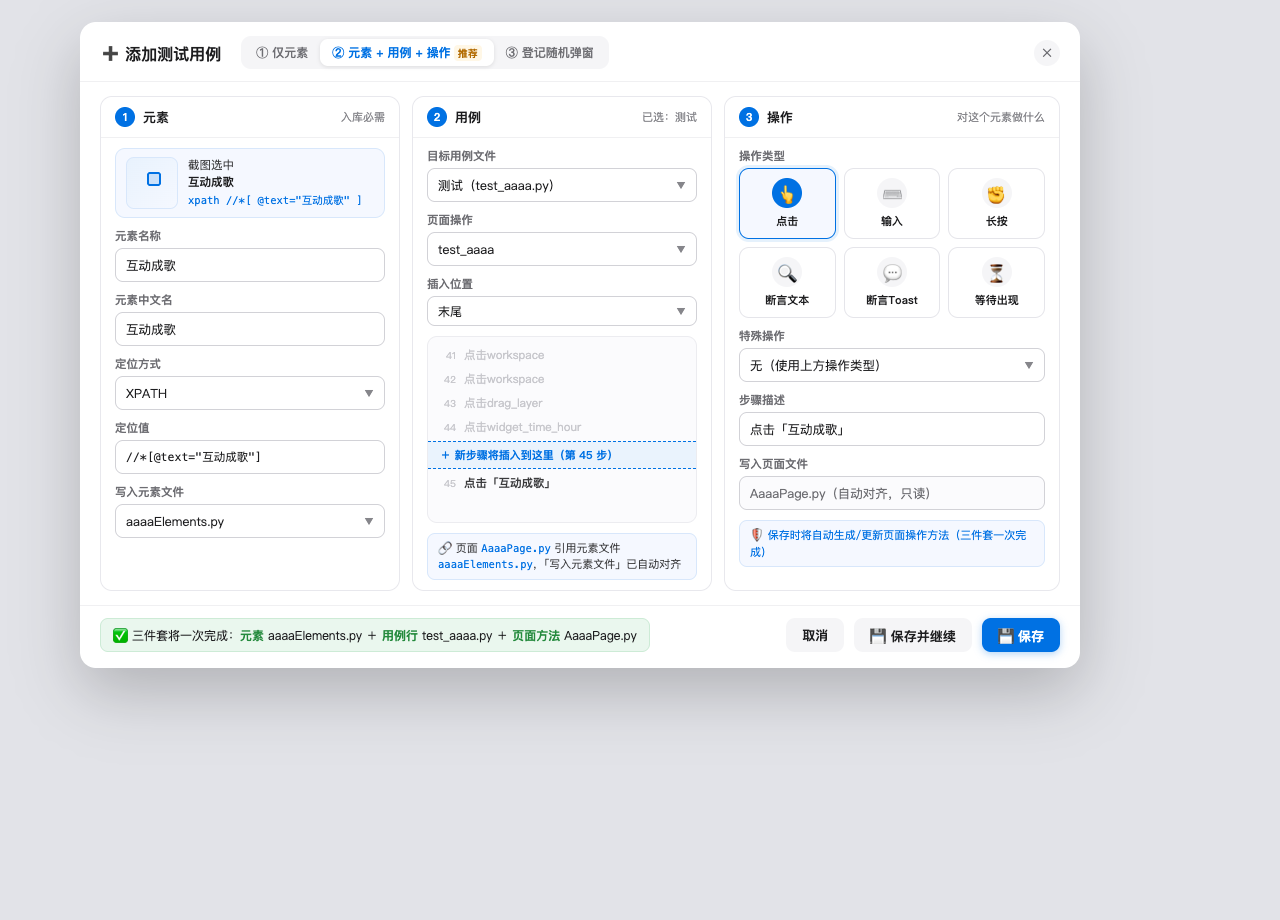
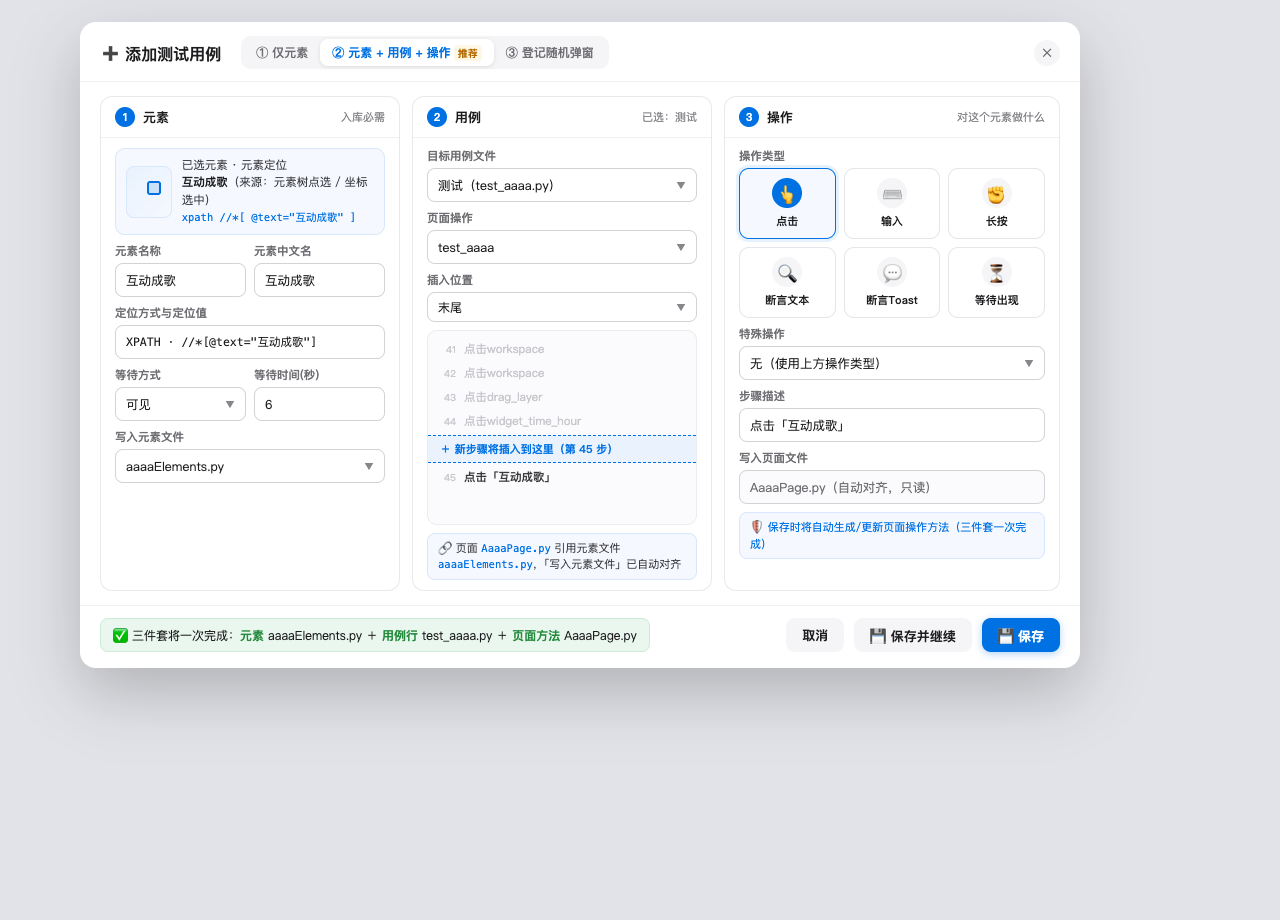
平台 v6.96：三栏式原型补等待字段与来源说明

diff --git a/design/proto-case-tri.html b/design/proto-case-tri.html
@@ -21,7 +21,8 @@
   .card-h .n { width:20px; height:20px; border-radius:50%; background:#0071e3; color:#fff; font-size:11px; font-weight:700; display:flex; align-items:center; justify-content:center; }
   .card-h .t { font-size:13px; font-weight:700; color:#1d1d1f; }
   .card-h .m { font-size:11px; color:#86868b; margin-left:auto; }
-  .card-b { padding:10px 14px; display:flex; flex-direction:column; gap:10px; flex:1; min-height:0; }
+  .card-b { padding:10px 14px; display:flex; flex-direction:column; gap:8px; flex:1; min-height:0; }
+  .grid2 { display:grid; grid-template-columns:1fr 1fr; gap:8px; }
   .field label { display:block; font-size:11.5px; font-weight:600; color:#6e6e73; margin-bottom:4px; }
   .inp, .sel { width:100%; height:34px; border:1px solid #d2d2d7; border-radius:8px; padding:0 10px; font-size:12.5px; color:#1d1d1f; display:flex; align-items:center; justify-content:space-between; background:#fff; }
   .inp.mono { font-family:ui-monospace,Menlo,monospace; font-size:11.5px; }
@@ -80,12 +81,17 @@
         <div class="card-b">
           <div class="anchor">
             <div class="thumb"><div class="mark"></div></div>
-            <div class="a-tx">截图选中<br><b>互动成歌</b><br><code>xpath //*[ @text="互动成歌" ]</code></div>
+            <div class="a-tx">已选元素 · 元素定位<br><b>互动成歌</b>（来源：元素树点选 / 坐标选中）<br><code>xpath //*[ @text="互动成歌" ]</code></div>
           </div>
-          <div class="field"><label>元素名称</label><div class="inp">互动成歌</div></div>
-          <div class="field"><label>元素中文名</label><div class="inp">互动成歌</div></div>
-          <div class="field"><label>定位方式</label><div class="sel"><span>XPATH</span><span class="arr">▼</span></div></div>
-          <div class="field"><label>定位值</label><div class="inp mono">//*[@text="互动成歌"]</div></div>
+          <div class="grid2">
+            <div class="field"><label>元素名称</label><div class="inp">互动成歌</div></div>
+            <div class="field"><label>元素中文名</label><div class="inp">互动成歌</div></div>
+          </div>
+          <div class="field"><label>定位方式与定位值</label><div class="inp mono">XPATH · //*[@text="互动成歌"]</div></div>
+          <div class="grid2">
+            <div class="field"><label>等待方式</label><div class="sel"><span>可见</span><span class="arr">▼</span></div></div>
+            <div class="field"><label>等待时间(秒)</label><div class="inp">6</div></div>
+          </div>
           <div class="field"><label>写入元素文件</label><div class="sel"><span>aaaaElements.py</span><span class="arr">▼</span></div></div>
         </div>
       </div>

diff --git a/web_platform/changelog.py b/web_platform/changelog.py
@@ -10,11 +10,20 @@
 两端不再各自硬编码版本号。
 """
 
-APP_VERSION = '6.95'
+APP_VERSION = '6.96'
 
 # 最新版本在最前；time 精确到秒（YYYY-MM-DD HH:MM:SS）
 # 每条变更一句话 10~20 字，只说改了什么（详细背景见项目 memory 与设计文档）
 CHANGELOG = [
+    {
+        'version': '6.96',
+        'time': '2026-09-23 15:34:05',
+        'title': '三栏式原型补等待字段与来源说明',
+        'changes': [
+            '修正 三栏式原型补等待方式与秒数字段',
+            '修正 锚点卡来源说明改为元素定位',
+        ],
+    },
     {
         'version': '6.95',
         'time': '2026-09-23 15:29:13',
